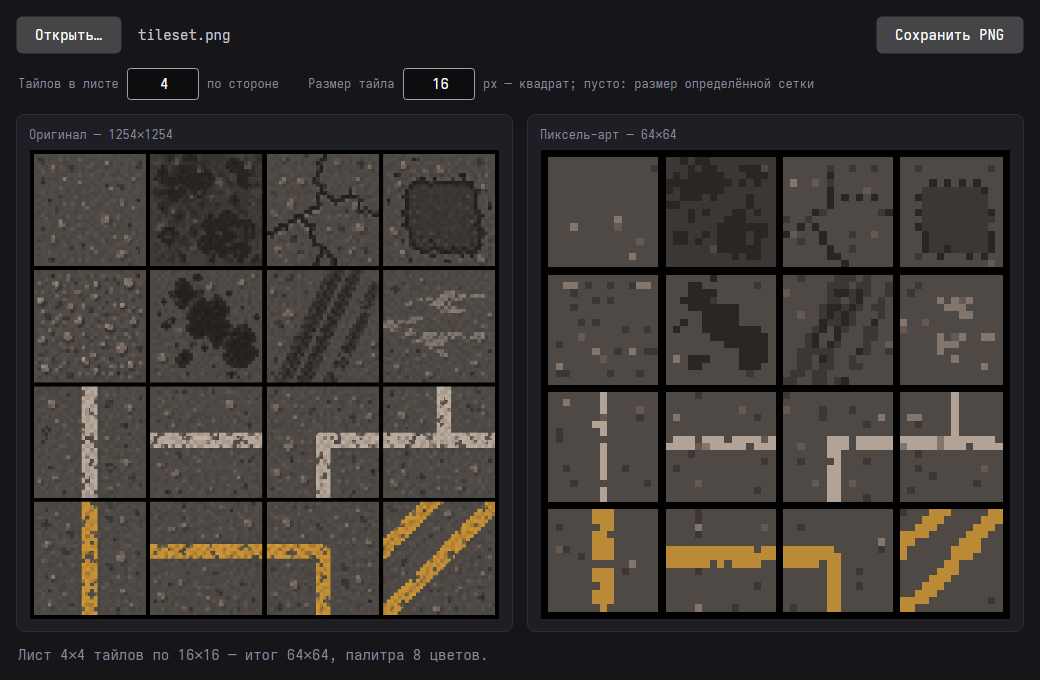
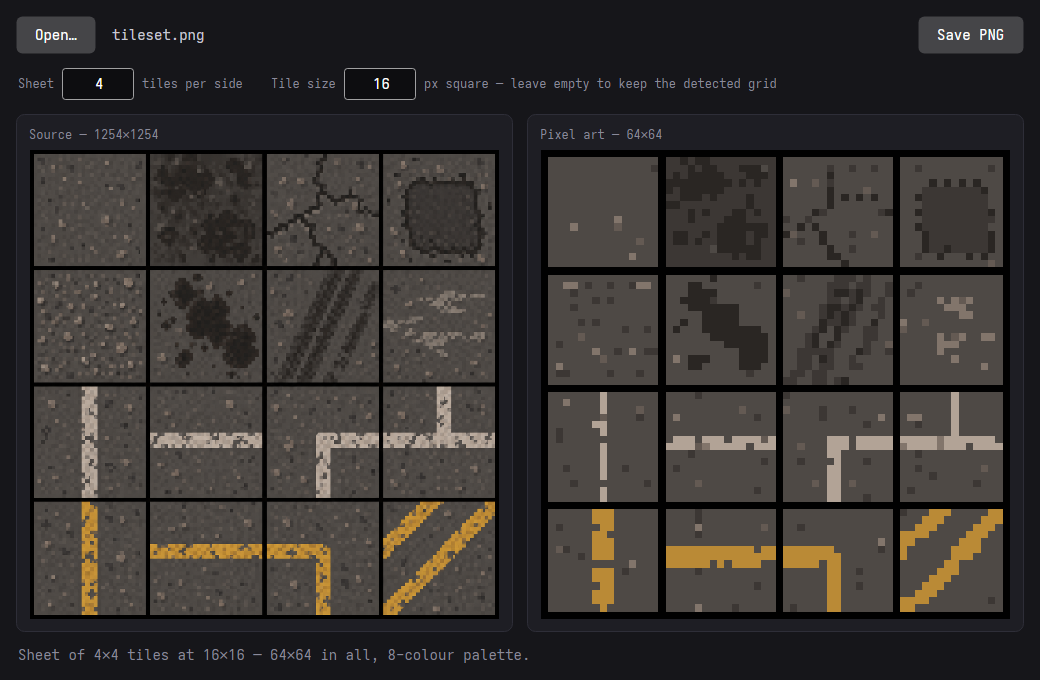
Put the window into English
The rest of the project -- CLI, README, code -- is in English, so the
window was the odd one out for anyone arriving from the repository page.
Labels follow the vocabulary the README and the options already use:
sheet, tile, grid, palette.

Screenshot retaken to match.

diff --git a/ui/asepix.Ui/MainWindow.axaml.cs b/ui/asepix.Ui/MainWindow.axaml.cs
@@ -47,7 +47,7 @@ public partial class MainWindow : Window
         if (await StorageProvider.TryGetFileFromPathAsync(initialFile) is { } file)
             await LoadAsync(file);
         else
-            StatusText.Text = $"Файл не найден: {initialFile}";
+            StatusText.Text = $"File not found: {initialFile}";
     }
 
     private async void OnOpenClick(object? sender, RoutedEventArgs e)
@@ -55,7 +55,7 @@ public partial class MainWindow : Window
         var files = await StorageProvider.OpenFilePickerAsync(
             new FilePickerOpenOptions
             {
-                Title = "Выберите изображение",
+                Title = "Choose an image",
                 AllowMultiple = false,
                 FileTypeFilter = [FilePickerFileTypes.ImageAll],
             }
@@ -73,7 +73,7 @@ public partial class MainWindow : Window
         var file = await StorageProvider.SaveFilePickerAsync(
             new FilePickerSaveOptions
             {
-                Title = "Сохранить пиксель-арт",
+                Title = "Save pixel art",
                 SuggestedFileName = $"{sourceName}_converted.png",
                 DefaultExtension = "png",
                 FileTypeChoices = [FilePickerFileTypes.ImagePng],
@@ -88,11 +88,11 @@ public partial class MainWindow : Window
             await using var stream = await file.OpenWriteAsync();
             await result.SaveAsPngAsync(stream);
 
-            StatusText.Text = $"Сохранено: {file.Name}";
+            StatusText.Text = $"Saved: {file.Name}";
         }
         catch (Exception exception)
         {
-            StatusText.Text = $"Не удалось сохранить: {exception.Message}";
+            StatusText.Text = $"Could not save: {exception.Message}";
         }
     }
 
@@ -124,7 +124,7 @@ public partial class MainWindow : Window
     internal async Task LoadAsync(Stream stream, string name)
     {
         SetBusy(true);
-        StatusText.Text = "Обработка…";
+        StatusText.Text = "Working…";
 
         try
         {
@@ -136,7 +136,7 @@ public partial class MainWindow : Window
             source = loaded;
 
             SourceImage.Source = ToBitmap(source);
-            SourceCaption.Text = $"Оригинал — {source.Width}×{source.Height}";
+            SourceCaption.Text = $"Source — {source.Width}×{source.Height}";
 
             sourceName = Path.GetFileNameWithoutExtension(name);
             HeaderText.Text = name;
@@ -187,7 +187,7 @@ public partial class MainWindow : Window
 
         SetBusy(true);
         SaveButton.IsEnabled = false;
-        StatusText.Text = "Обработка…";
+        StatusText.Text = "Working…";
 
         try
         {
@@ -204,10 +204,10 @@ public partial class MainWindow : Window
             result = converted;
 
             ResultImage.Source = ToBitmap(result);
-            ResultCaption.Text = $"Пиксель-арт — {result.Width}×{result.Height}";
+            ResultCaption.Text = $"Pixel art — {result.Width}×{result.Height}";
             StatusText.Text = options.TileSize is int tile
-                ? $"Лист {options.SheetTiles}×{options.SheetTiles} тайлов по {tile}×{tile} — итог {result.Width}×{result.Height}, палитра 8 цветов."
-                : $"Сетка определена автоматически: {result.Width}×{result.Height}, палитра 8 цветов.";
+                ? $"Sheet of {options.SheetTiles}×{options.SheetTiles} tiles at {tile}×{tile} — {result.Width}×{result.Height} in all, 8-colour palette."
+                : $"Grid detected automatically: {result.Width}×{result.Height}, 8-colour palette.";
 
             SaveButton.IsEnabled = true;
         }
@@ -230,9 +230,9 @@ public partial class MainWindow : Window
     private static string Describe(Exception exception) =>
         exception switch
         {
-            UnknownImageFormatException => "Это не изображение — поддерживаются PNG, JPEG, BMP, GIF, WebP.",
+            UnknownImageFormatException => "That is not an image — PNG, JPEG, BMP, GIF and WebP are supported.",
             InvalidOperationException => exception.Message,
-            _ => $"Не удалось открыть: {exception.Message}",
+            _ => $"Could not open: {exception.Message}",
         };
 
     private static Bitmap ToBitmap(PixelArt image)

diff --git a/tests/asepix.Ui.Tests/MainWindowTests.cs b/tests/asepix.Ui.Tests/MainWindowTests.cs
@@ -88,7 +88,7 @@ public class MainWindowTests
     /// <summary>
     /// Setting a size before opening anything has nothing to convert, and that no-op used to
     /// leave a finished conversion parked as if it were still running — after which every
-    /// later conversion returned at once and the window sat on "Обработка…" for good.
+    /// later conversion returned at once and the window sat on "Working…" for good.
     /// </summary>
     [AvaloniaFact]
     public async Task Setting_ASizeBeforeOpeningAnImage_StillConvertsTheImageOpenedAfterwards()
@@ -170,7 +170,7 @@ public class MainWindowTests
         await window.LoadAsync(new MemoryStream("not an image"u8.ToArray()), "notes.txt");
 
         Assert.False(window.GetControl<Button>("SaveButton").IsEnabled);
-        Assert.Contains("не изображение", window.GetControl<TextBlock>("StatusText").Text);
+        Assert.Contains("not an image", window.GetControl<TextBlock>("StatusText").Text);
     }
 
     /// <summary>
